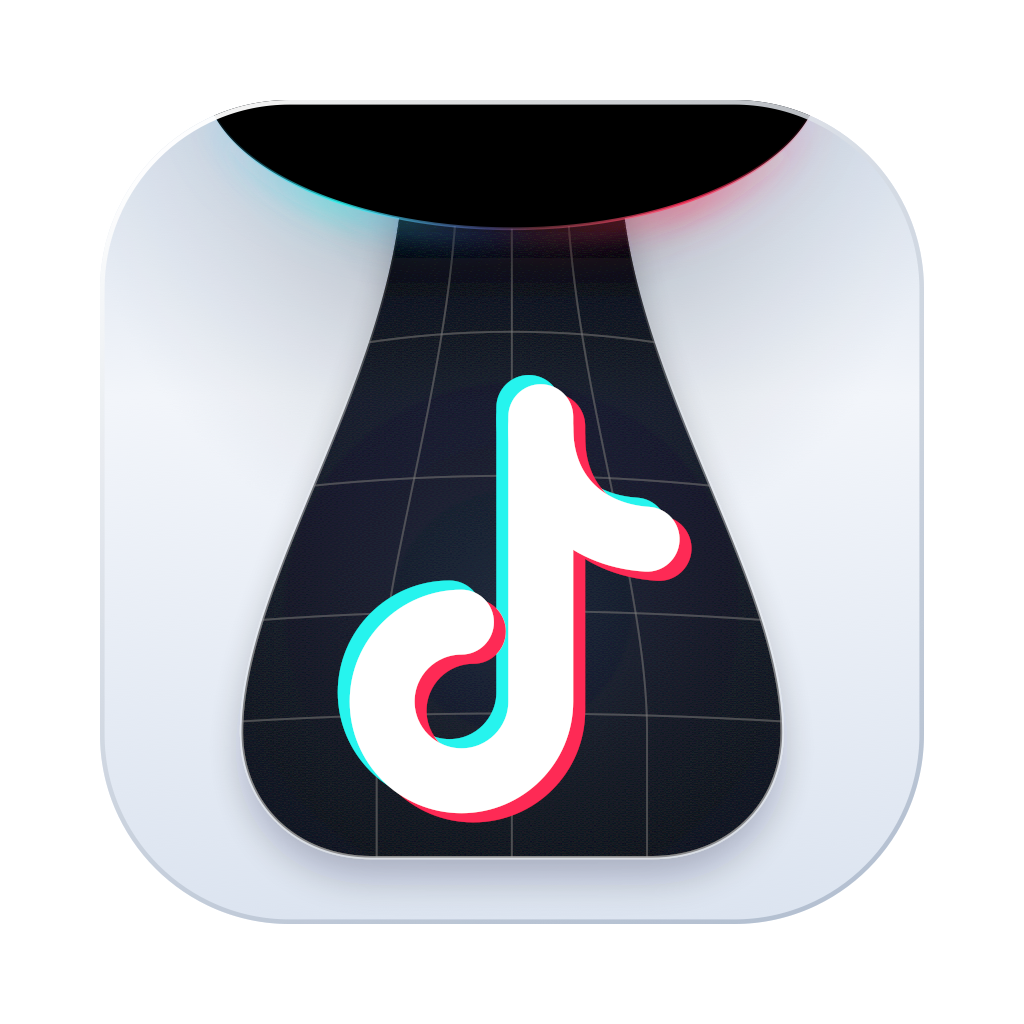
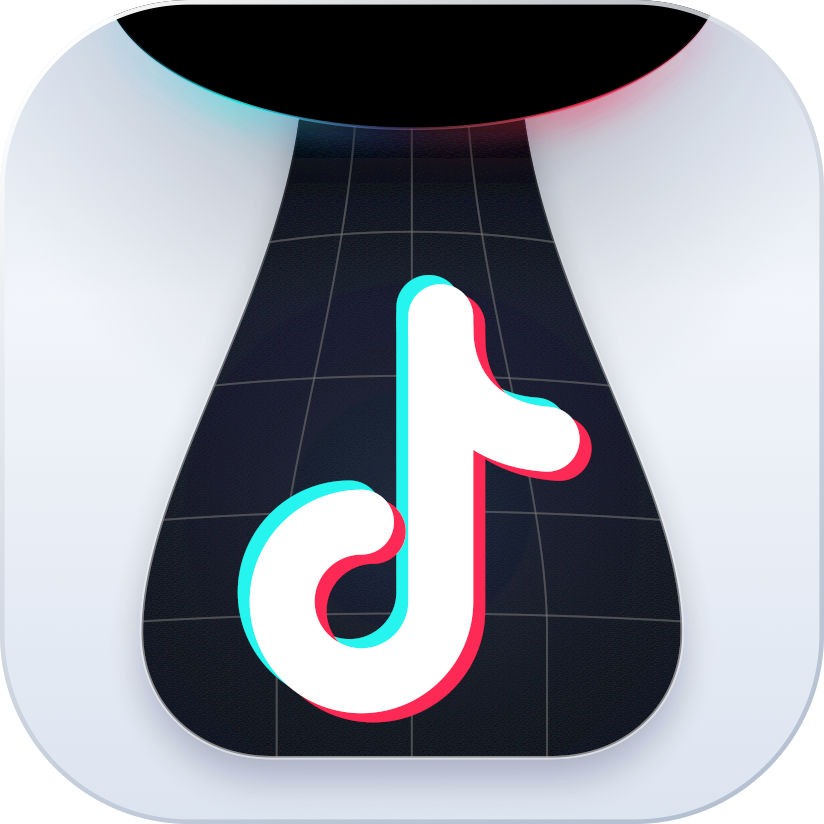
统一 README 中抖音与红果双图标的画布裁剪与显示尺寸

diff --git a/README.md b/README.md
@@ -1,9 +1,9 @@
 <div align="center">
 
 <p>
-  <img src="docs/icon.png" width="92" alt="MyDouyin 抖音原生桌面客户端图标">
-  &nbsp;&nbsp;&nbsp;
-  <img src="docs/hongguo-icon.png" width="92" alt="MyHongguo 红果短剧桌面模式图标">
+  <img src="docs/icon.png" width="80" alt="MyDouyin 抖音原生桌面客户端图标">
+  &nbsp;&nbsp;&nbsp;&nbsp;
+  <img src="docs/hongguo-icon.png" width="80" alt="MyHongguo 红果短剧桌面模式图标">
 </p>
 
 # MyDouyin · MyHongguo

diff --git a/README.en.md b/README.en.md
@@ -1,9 +1,9 @@
 <div align="center">
 
 <p>
-  <img src="docs/icon.png" width="92" alt="MyDouyin native desktop client icon">
-  &nbsp;&nbsp;&nbsp;
-  <img src="docs/hongguo-icon.png" width="92" alt="MyHongguo short drama mode icon">
+  <img src="docs/icon.png" width="80" alt="MyDouyin native desktop client icon">
+  &nbsp;&nbsp;&nbsp;&nbsp;
+  <img src="docs/hongguo-icon.png" width="80" alt="MyHongguo short drama mode icon">
 </p>
 
 # MyDouyin · MyHongguo
